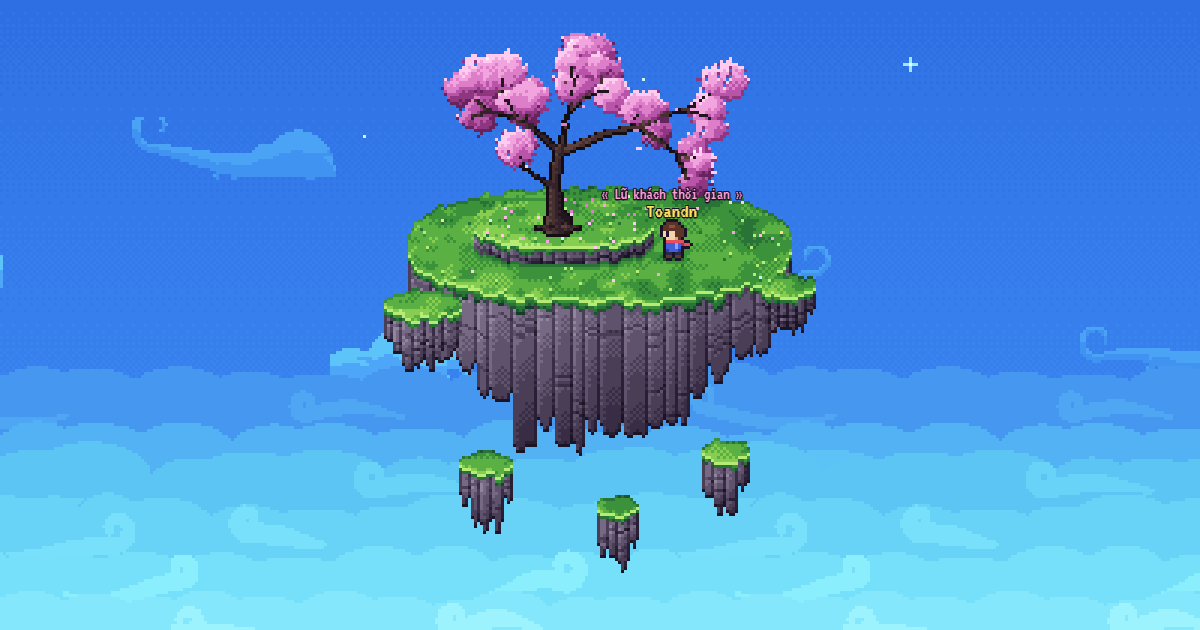
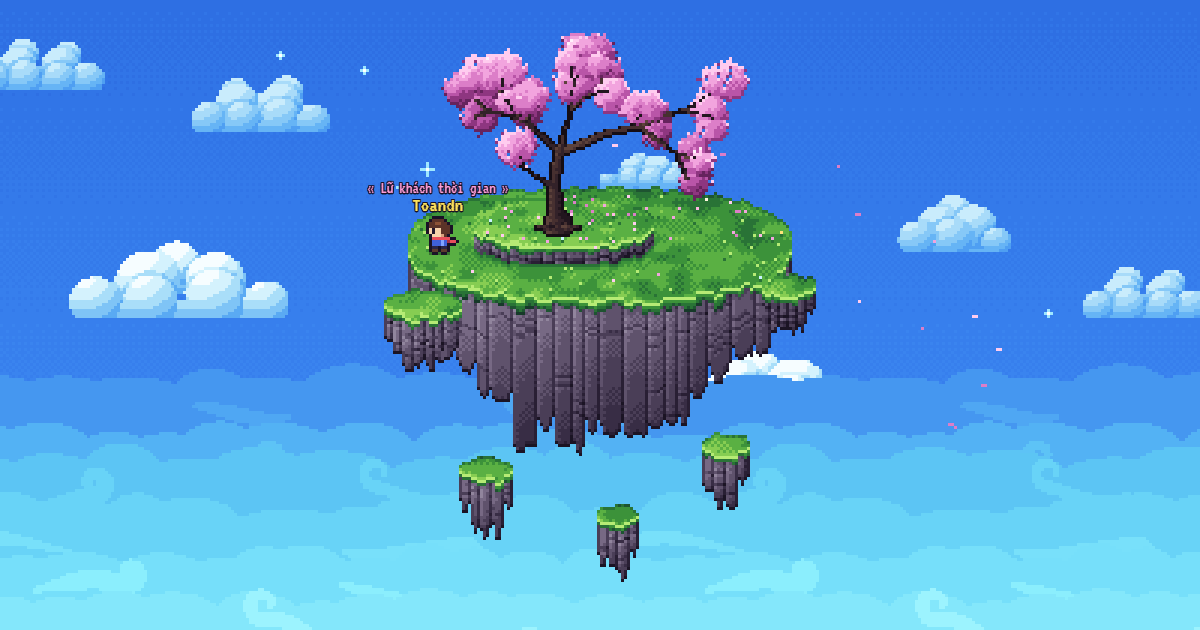
update cloud
update cloud

diff --git a/my-profile/js/scene.js b/my-profile/js/scene.js
@@ -17,8 +17,9 @@
     // trời gần như phẳng như ảnh gốc, chỉ đậm nhẹ ở trên
     sky: ['#2e6fe3', '#3175e7', '#347aea', '#377fed', '#3a84ef', '#3e8af0', '#4290f1'],
     // mây giữa trời: [tông đậm, tông sáng]
-    far: ['#4193f1', '#4ba3f5'],
-    mid: ['#4da6f7', '#5cc4f9']
+    // mây trên trời: 5 sắc độ tối → sáng, bóng ngả lam, sáng ngả xanh ngọc như biển mây
+    far: ['#4f9ff2', '#66b4f5', '#86c8f7', '#a8dbf9', '#c9ecfc'],   // xa: tương phản thấp, hoà vào trời
+    mid: ['#5aaaf3', '#7fc4f6', '#a9def9', '#d4f2fd', '#f6fdff']    // gần: sáng rõ, đỉnh gần trắng
   };
   var R = {};
   Object.keys(HEX).forEach(function (k) { R[k] = ramp(HEX[k]); });
@@ -391,57 +392,83 @@
     return { img: buf.canvas(), fill: layers[layers.length - 1].col };
   }
 
-  // Mây giữa trời: thân phồng nhỏ kéo theo đuôi dài uốn lượn có móc cuộn,
-  // tô hai tông như ảnh gốc: nửa trên sáng, nửa dưới đậm
-  function buildSkyCloud(r, w, h, cols) {
-    var shape = new PX.Buf(w, h), ON = 1;
-    var left = r() < 0.5, bodyW = w * r.range(0.3, 0.45);
-    var bx0 = left ? r.range(1, 4) : w - bodyW - r.range(1, 4), baseY = h - 2, x, xx, y;
-    x = bx0 + bodyW * 0.18;
-    while (x < bx0 + bodyW * 0.85) {
-      var bw = r.range(h * 0.7, h * 1.2), bh = r.range(h * 0.4, h * 0.85);
-      for (xx = Math.floor(x - bw / 2); xx <= Math.ceil(x + bw / 2); xx++) {
-        var u = (xx + 0.5 - x) / (bw / 2);
-        if (Math.abs(u) >= 1) continue;
-        for (y = Math.round(baseY - bh * Math.sqrt(1 - u * u)); y <= baseY; y++) shape.set(xx, y, ON, 1);
-      }
-      x += bw * r.range(0.45, 0.7);
-    }
-    var dir = left ? 1 : -1, sx = left ? bx0 + bodyW * 0.75 : bx0 + bodyW * 0.25;
-    var tail = Math.max(4, h * r.range(0.36, 0.46));
-    ribbon(shape, ON, {
-      x: sx, y: baseY - tail / 2 - r.range(0, h * 0.15), len: w - bodyW - 8, dir: dir, amp: r.range(1, h * 0.14),
-      waves: r.range(1, 1.8), phase: r.range(0, 1), thick: tail,
-      shape: 'out', curl: Math.max(3, tail * 0.75), up: -1
-    });
-    if (r() < 0.6) {
-      var tail2 = Math.max(3, h * 0.26);
-      ribbon(shape, ON, {
-        x: sx - dir * bodyW * 0.3, y: baseY - tail2 / 2, len: (w - bodyW) * r.range(0.4, 0.65), dir: dir, amp: r.range(1, 2),
-        waves: r.range(0.8, 1.4), phase: r.range(1, 2.5), thick: tail2, shape: 'out', curl: Math.max(2.5, tail2 * 0.8), up: 1
-      });
-    }
+  // Đổi bản đồ sắc độ (-1 = trong suốt) thành ảnh theo bảng màu
+  function toneCanvas(idx, w, h, pal) {
+    var b = new PX.Buf(w, h), cols = pal.map(function (c) { return PX.hex(c); });
+    for (var i = 0; i < idx.length; i++) if (idx[i] >= 0) { b.d[i] = cols[idx[i]]; b.k[i] = 1; }
+    return b.canvas();
+  }
 
-    // Tô màu: mỗi cột, phần trên của mỗi đoạn mây là màu sáng
-    var out = new PX.Buf(w, h), base = PX.hex(cols[0]), light = PX.hex(cols[1]);
-    for (xx = 0; xx < w; xx++) {
-      y = 0;
-      while (y < h) {
-        if (!shape.kind(xx, y)) { y++; continue; }
-        var y0 = y;
-        while (y < h && shape.kind(xx, y)) y++;
-        var lit = Math.max(1, Math.round((y - y0) * 0.45));
-        for (var yy = y0; yy < y; yy++) out.set(xx, yy, yy < y0 + lit ? light : base, 1);
+  // Dọn mép kiểu vẽ tay: bỏ pixel thò ra lẻ loi, lấp lỗ đơn, xoá chấm màu lạc giữa mảng
+  function tidy(idx, w, h) {
+    function at(a, x, y) { return x < 0 || y < 0 || x >= w || y >= h ? -1 : a[y * w + x]; }
+    for (var pass = 0; pass < 2; pass++) {
+      var c = idx.slice();
+      for (var y = 0; y < h; y++) for (var x = 0; x < w; x++) {
+        var n = [at(c, x - 1, y), at(c, x + 1, y), at(c, x, y - 1), at(c, x, y + 1)];
+        var solid = n.filter(function (v) { return v >= 0; });
+        var k = y * w + x;
+        if (c[k] >= 0 && solid.length <= 1) idx[k] = -1;
+        else if (c[k] < 0 && solid.length >= 3) idx[k] = Math.max.apply(null, solid);
+        else if (c[k] >= 0 && solid.length === 4 && n[0] === n[1] && n[1] === n[2] && n[2] === n[3] && n[0] !== c[k]) idx[k] = n[0];
       }
     }
-    // Nét xoáy đậm bên trong thân mây
-    var swirl = new PX.Buf(w, h);
-    ribbon(swirl, ON, {
-      x: bx0 + bodyW * (left ? 0.25 : 0.75), y: baseY - h * 0.35, len: bodyW * 0.35, dir: dir, amp: 0.8,
-      waves: 1, phase: 0, thick: 1, shape: 'out', curl: Math.max(1.8, h * 0.13), up: 1
-    });
-    for (var i = 0; i < swirl.k.length; i++) if (swirl.k[i] && out.k[i]) out.d[i] = base;
-    return out.canvas();
+  }
+
+  // Mây tích (cumulus) pixel art, theo các nguyên tắc vẽ mây pixel:
+  //  - ghép từ nhiều cụm tròn: hàng dưới nhiều cụm nhỏ, hàng giữa cụm lớn, đỉnh 1–2 cụm, đáy phẳng
+  //  - cụm thấp nằm trước cụm cao; tô sáng RIÊNG từng cụm như một quả cầu, nắng từ trên-trái
+  //    (viền trên-trái gần trắng, dưới-phải tối) → không bị "pillow shading"
+  //  - khe ngay sau mép cụm phía trước và phần đáy chìm trong bóng (bóng ngả lam, không xám)
+  // pal: 5 sắc độ từ tối đến sáng
+  function buildCumulus(r, w, h, pal) {
+    var baseY = h - 2, puffs = [], i, x, y, t, rad;
+    function bell(u) { return Math.max(0, 1 - Math.pow((u - 0.5) * 2, 2)); }
+    var n0 = Math.max(3, Math.round(w / (h * 0.68)));
+    for (i = 0; i < n0; i++) {
+      t = (i + 0.5) / n0; rad = h * (0.2 + 0.14 * bell(t)) * r.range(0.85, 1.15);
+      puffs.push({ x: w * (0.06 + 0.88 * t) + r.range(-1.5, 1.5), y: baseY - rad * 0.5, r: rad });
+    }
+    var n1 = Math.max(2, Math.round(n0 * 0.5));
+    for (i = 0; i < n1; i++) {
+      t = (i + 0.5) / n1; rad = h * (0.27 + 0.12 * bell(t)) * r.range(0.9, 1.1);
+      puffs.push({ x: w * (0.2 + 0.6 * t) + r.range(-2, 2), y: baseY - h * 0.36, r: rad });
+    }
+    var n2 = r() < 0.5 ? 1 : 2;
+    for (i = 0; i < n2; i++) {
+      puffs.push({ x: w * (n2 === 1 ? r.range(0.4, 0.6) : 0.37 + i * 0.26) + r.range(-2, 2), y: baseY - h * 0.58 + r.range(-1, 1), r: h * r.range(0.25, 0.3) });
+    }
+    // đế mây phẳng liền mạch từ cụm dưới cùng bên trái tới bên phải (không bị lõm răng cưa)
+    var slabL = puffs[0].x, slabR = puffs[n0 - 1].x, slabTop = baseY - h * 0.16;
+    puffs.sort(function (a, b) { return a.y - b.y; });   // cụm cao ở sau, cụm thấp ở trước
+    var L = [-0.45, -0.72, 0.53];
+    var idx = new Int8Array(w * h).fill(-1);
+    for (y = 0; y <= baseY; y++) for (x = 0; x < w; x++) {
+      var px = x + 0.5, py = y + 0.5, own = -1, j;
+      for (j = puffs.length - 1; j >= 0; j--) {
+        var dx = px - puffs[j].x, dy = py - puffs[j].y;
+        if (dx * dx + dy * dy <= puffs[j].r * puffs[j].r) { own = j; break; }
+      }
+      if (own < 0) {
+        if (py >= slabTop && px >= slabL && px <= slabR) idx[y * w + x] = baseY - y < Math.max(1, h * 0.1) ? 1 : 2;
+        continue;
+      }
+      var p = puffs[own], nx = (px - p.x) / p.r, ny = (py - p.y) / p.r;
+      var nz = Math.sqrt(Math.max(0, 1 - nx * nx - ny * ny));
+      // sáng theo từng cụm + chuyển sắc theo chiều cao để cả đám mây liền một khối
+      var lam = (nx * L[0] + ny * L[1] + nz * L[2]) * 0.75 + (0.5 - py / h) * 0.7 + 0.08;
+      var lv = lam > 0.72 ? 4 : lam > 0.42 ? 3 : lam > 0.08 ? 2 : lam > -0.3 ? 1 : 0;
+      for (j = own + 1; j < puffs.length; j++) {          // đường tách mảnh phía trên cụm phía trước
+        var d = Math.hypot(px - puffs[j].x, py - puffs[j].y) - puffs[j].r;
+        if (d > 0 && d < 1.2 && py < puffs[j].y) { lv = Math.max(0, lv - 1); break; }
+      }
+      var fromBase = baseY - y;
+      if (fromBase < Math.max(1, h * 0.1)) lv = Math.min(lv, 1);
+      else if (fromBase < h * 0.2) lv = Math.min(lv, 2);
+      idx[y * w + x] = lv;
+    }
+    tidy(idx, w, h);
+    return toneCanvas(idx, w, h, pal);
   }
 
   function buildSky(W, H) {
@@ -533,8 +560,10 @@
     var hero = makeCharacter(opts.character);
     var cr = PX.rng(seed + 55), i;
     var farImgs = [], midImgs = [];
-    for (i = 0; i < 4; i++) farImgs.push(buildSkyCloud(cr, cr.int(80, 130), cr.int(16, 24), HEX.far));
-    for (i = 0; i < 3; i++) midImgs.push(buildSkyCloud(cr, cr.int(56, 92), cr.int(13, 19), HEX.mid));
+    // Tầng xa: mây tích nhỏ nhạt màu; tầng giữa (sau đảo): mây tích lớn sáng hơn
+    // tầng xa: mây tích nhỏ, nhạt màu (to nhỏ khác nhau cho tự nhiên)
+    for (i = 0; i < 4; i++) farImgs.push(buildCumulus(cr, cr.int(34, 60), cr.int(14, 22), HEX.far));
+    for (i = 0; i < 3; i++) midImgs.push(buildCumulus(cr, cr.int(58, 86), cr.int(24, 32), HEX.mid));
     // Biển mây: lớp càng gần càng sáng và ngả xanh ngọc (màu lấy từ ảnh gốc)
     var bankBack = buildBank(cr, 256, 56, [
       { col: '#4597f0', wisp: '#4fa7f3', top: 16, bw: [28, 48], bh: [8, 14], every: 90 },
@@ -598,7 +627,7 @@
       if (opts.onLayout) opts.onLayout({ mode: mode, heroCss: Math.round(heroCss) });
 
       var lr = PX.rng(seed + W);
-      var skyBottom = mode === 'tall' ? baseY + SCENE_BOTTOM - 40 : H * 0.62;
+      var skyBottom = mode === 'tall' ? baseY + SCENE_BOTTOM - 40 : H * 0.55;
       // Mây thưa, rải đều theo các tầng cao độ để không chồng lên nhau
       function spread(imgs, n, y0, y1, sp) {
         var list = [];
@@ -612,7 +641,7 @@
         }
         return list;
       }
-      far = spread(farImgs, 2 + Math.ceil(W / 220), 4, skyBottom, [0.9, 1.6]);
+      far = spread(farImgs, mode === 'wide' ? 3 + Math.ceil(W / 150) : 2 + Math.ceil(W / 220), 4, skyBottom, [0.9, 1.6]);
       mid = spread(midImgs, W > 300 ? 3 : 2, baseY + 6, baseY + SCENE_BOTTOM - 40, [2.2, 3.2]);
       seaTop = mode === 'wide' ? Math.round(H * 0.63) : baseY + SCENE_BOTTOM - 60;
       stars = [];

diff --git a/my-profile/index.html b/my-profile/index.html
@@ -115,7 +115,7 @@
           <li>
             <a class="link" data-brand="web" href="https://toandn9x.github.io/mybio/" target="_blank" rel="noopener">
               <span class="link-icon"></span>
-              <span class="link-text"><span class="link-label">Web site</span><span class="link-sub">Trang giới thiệu của mình</span></span>
+              <span class="link-text"><span class="link-label">WebSite</span><span class="link-sub">Trang giới thiệu của mình</span></span>
               <span class="link-arrow"></span>
             </a>
           </li>
